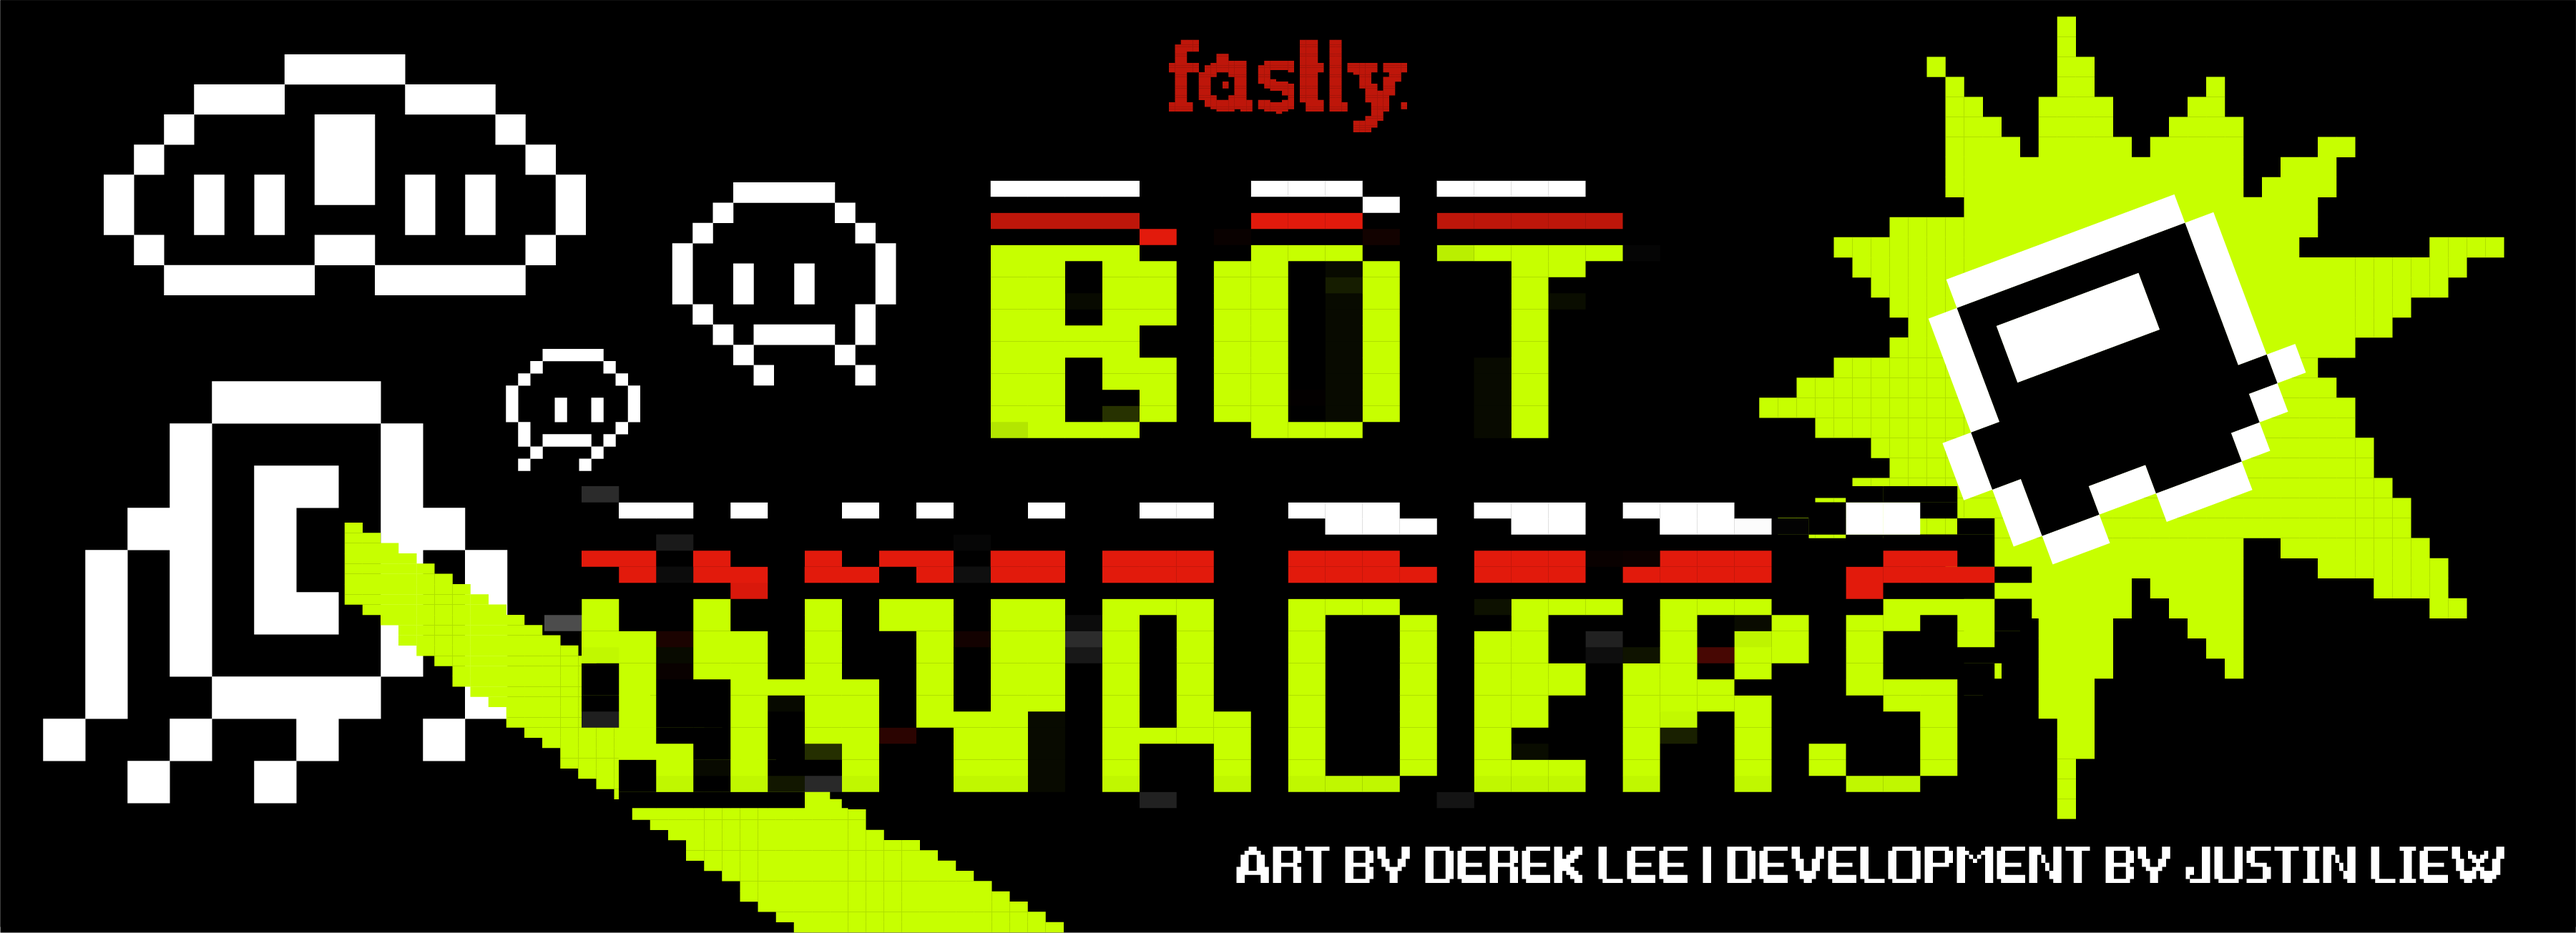
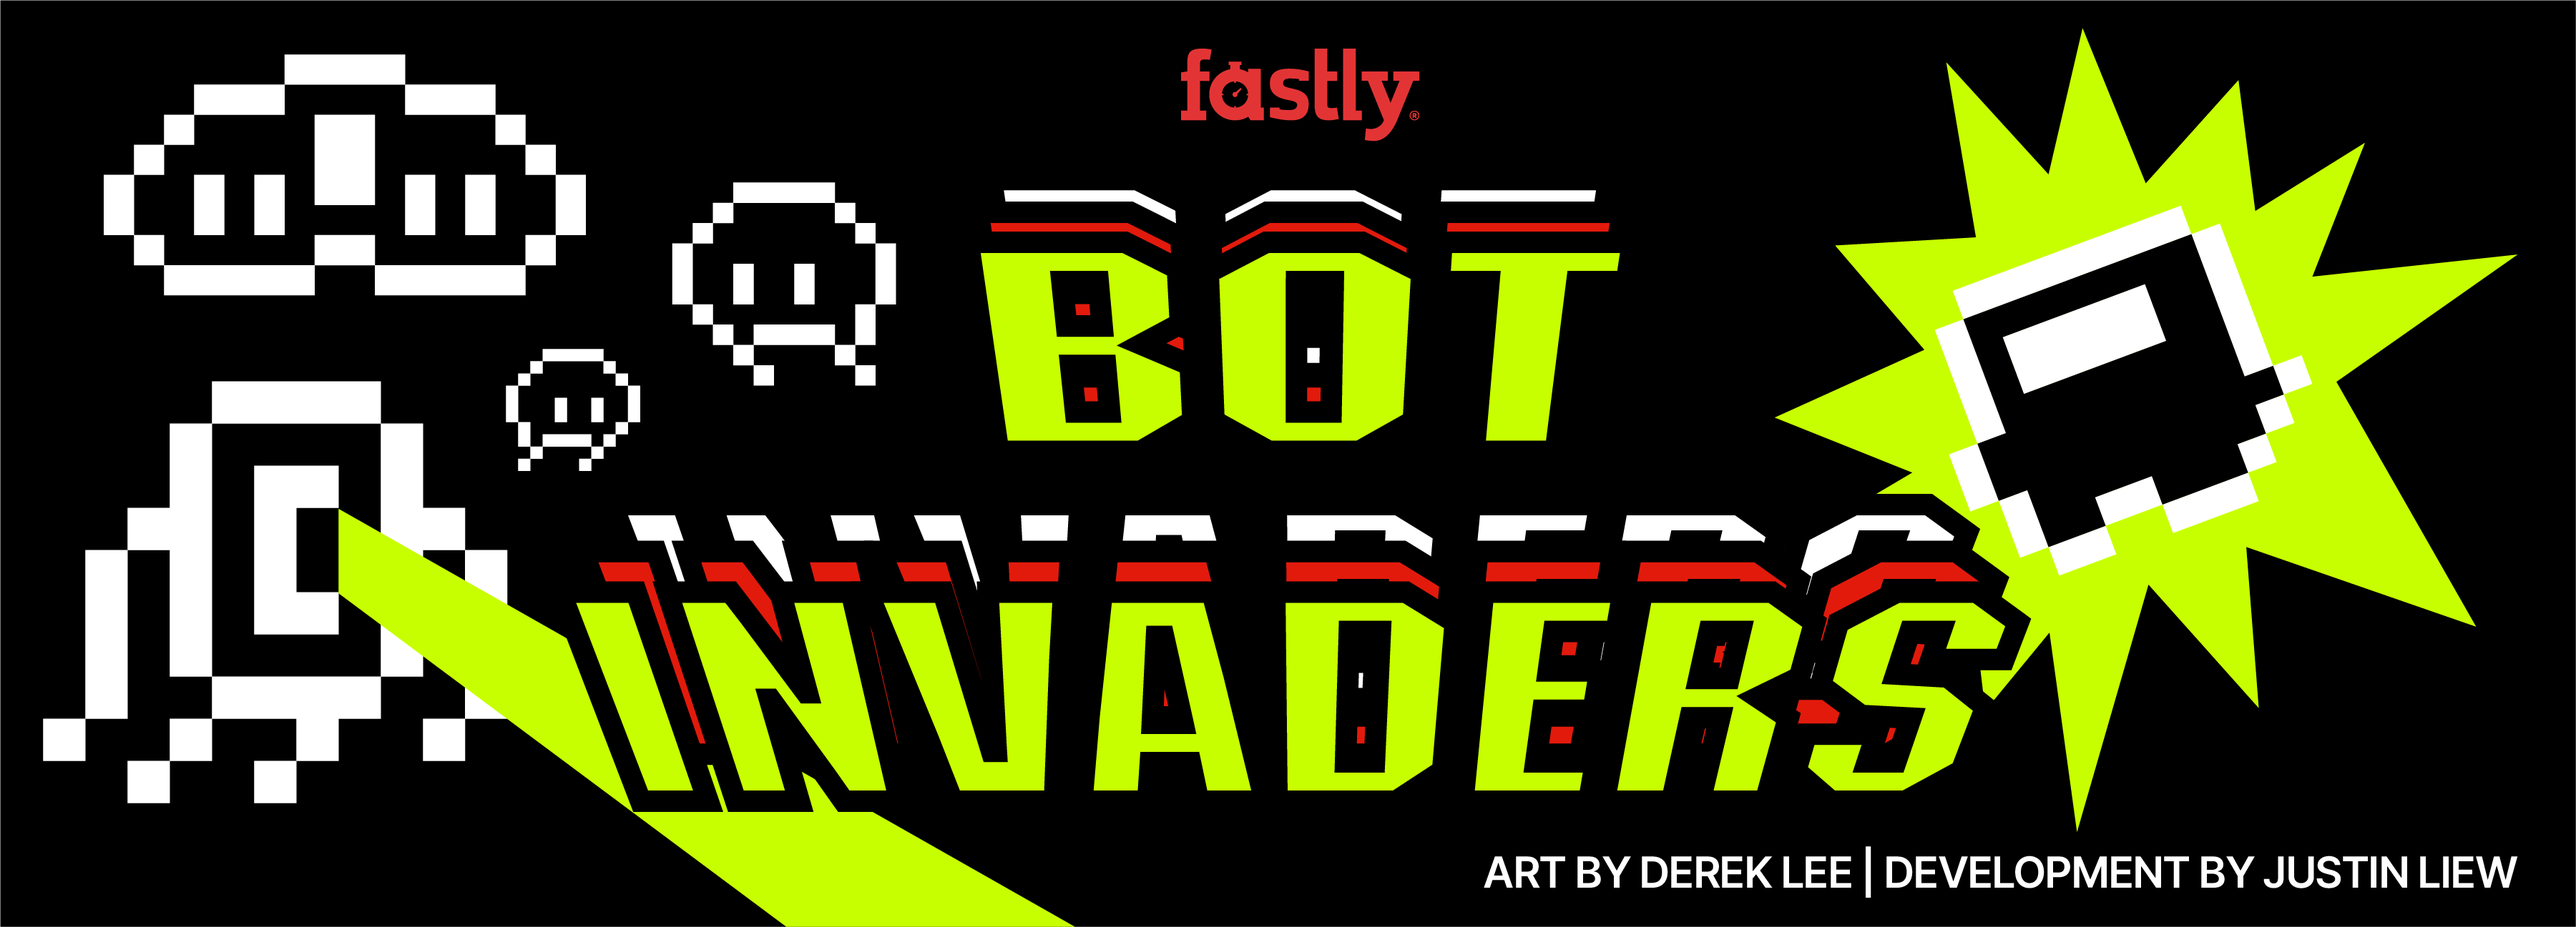
header and footer

diff --git a/index.html b/index.html
@@ -370,7 +370,7 @@ const buttonTemplate = `
 			res.header_img.src = 'header.png';
 			res.header_img.alt = 'Bot Invaders Header';
 
-			res.footer_img.src = 'header.png';
+			res.footer_img.src = 'footer.png';
 			res.footer_img.alt = 'Bot Invaders Footer';
 
 			// Particle
